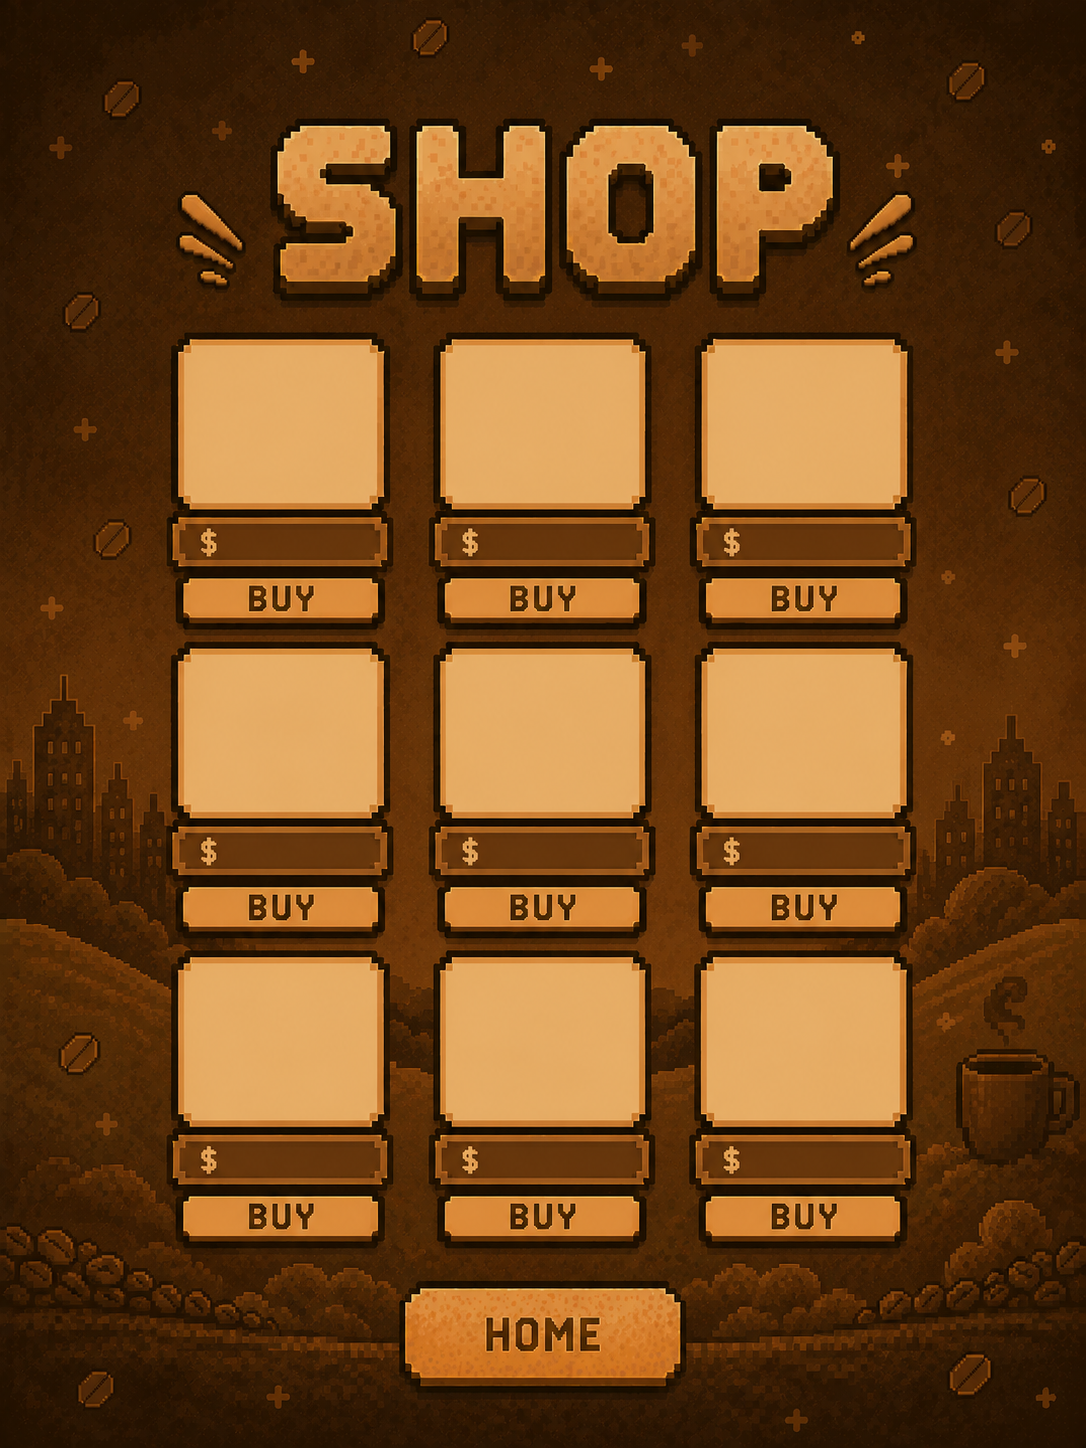
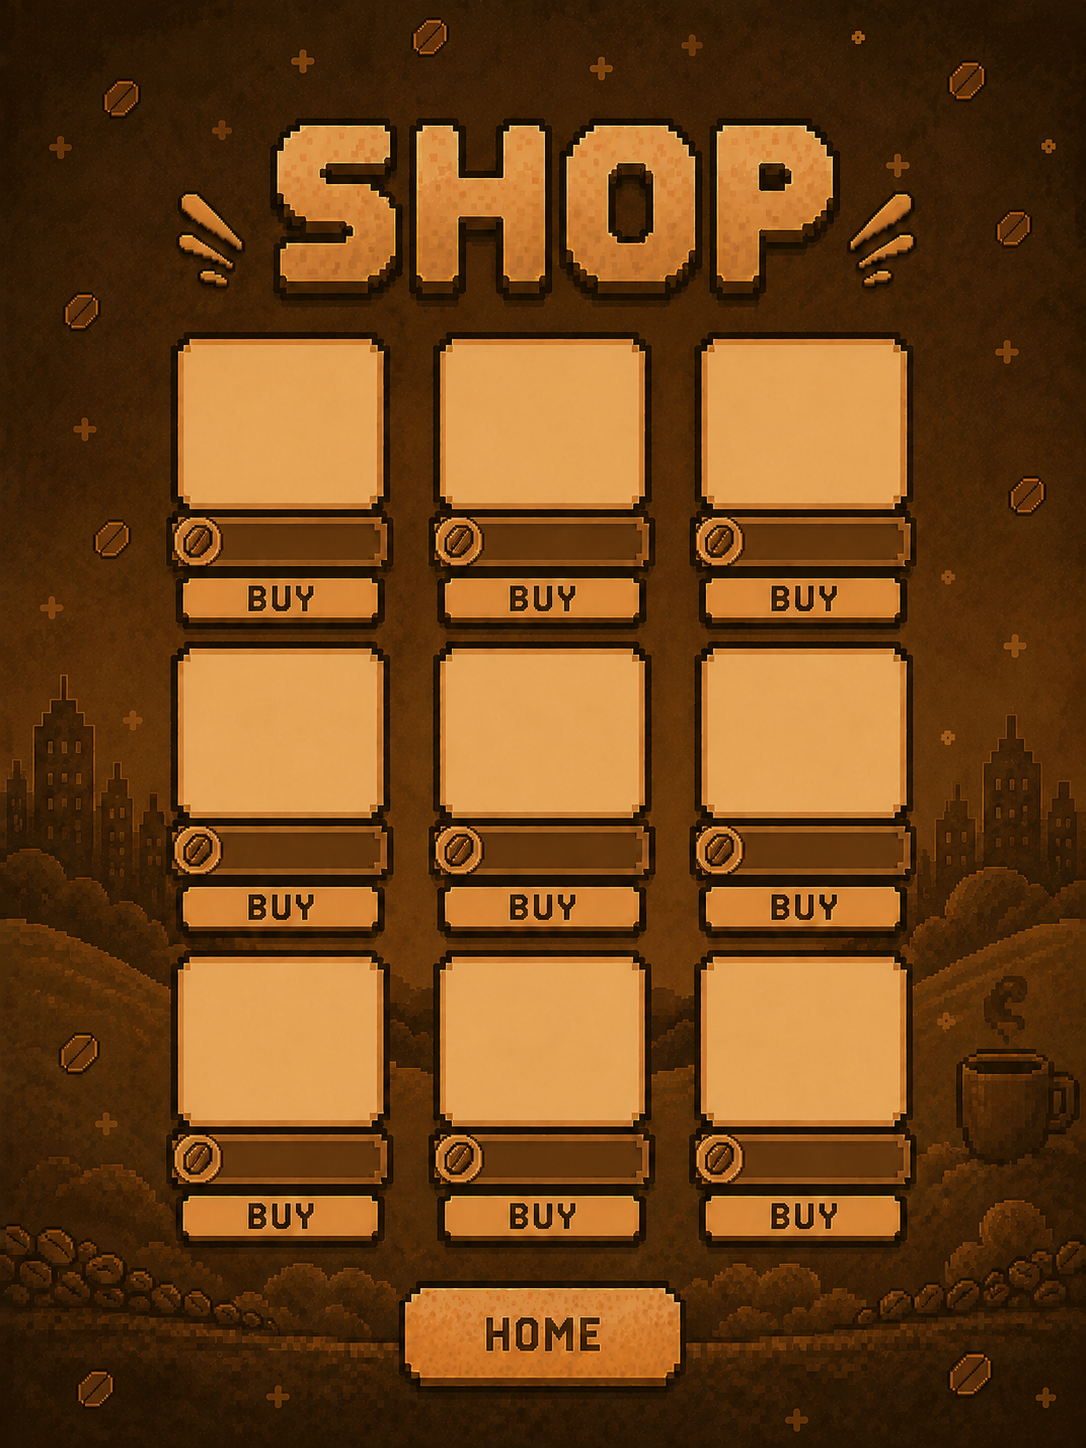
Item 1 fully done

diff --git a/main.py b/main.py
@@ -24,12 +24,13 @@ if gamestatus == 4:
     loadingimg = pygame.transform.scale(loadingold, (750, 1000))
     display.blit(loadingimg, (-25,0))
     pygame.display.flip()
-    time.sleep(1.5)
+    time.sleep(0.5)
     gamestatus = 1
 #Font
 font = pygame.font.Font('Assets/font.ttf', 120)
 mode_font = pygame.font.Font('Assets/font.ttf', 70)
 money_font = pygame.font.Font('Assets/font.ttf', 50)
+moneysmall_font = pygame.font.Font('Assets/font.ttf', 25)
 #Backround
 backrounddetails = 'Assets/backround.png'
 birddetails = 'Assets/bird.png'
@@ -54,7 +55,7 @@ milkbirdimg = pygame.transform.scale(milkbirdold, (120, 80))
 milkpillarold = pygame.image.load('Assets/milkpillar.png')
 milkpillarimg = pygame.transform.scale(milkpillarold, (400, 600))
 shopmilkpillarold = pygame.image.load('Assets/milkpillar.png')
-shopmilkpillarimg = pygame.transform.scale(milkpillarold, (100, 150))
+shopmilkpillarimg = pygame.transform.scale(milkpillarold, (70, 120))
 BLUE = 0,0,255
 #Json Save File
 defult_data = {
@@ -106,6 +107,13 @@ equip1 = {
     'width': 160,
     'height': 45
 }
+equip2 = {
+    'x': 90,
+    'y': 590,
+    'width': 160,
+    'height': 45
+}
+
 #home
 startbutton = {
     'x': 180,
@@ -199,6 +207,8 @@ class pillarobj:
         self.pillar3 = display.blit(pillarimgload, (pillar3x, third_pillary))
         self.pillar3flip = display.blit(pillarimgflipload, (pillar3x, third_pillary + 850))
 pillaryplus = 40    
+milkpillarx = 108
+shopspeed = 1
 pillarload = pillarobj()
 highscore['highscore'] = str(game_data['highscore'])
 equip1img = equipimg
@@ -270,26 +280,35 @@ while running:
         #backround dont move
         display.blit(shopimg, (-25, -20))
         display.blit(milkbirdimg, (108, 228))
+        milkpillarx -= shopspeed
+        if milkpillarx == 78:
+            shopspeed = -1
+        if milkpillarx == 188:
+            shopspeed = 1
+        display.blit(shopmilkpillarimg, (milkpillarx, 428))
         if game_data['item1'] == True:
             display.blit(equip1img, (90, 340))
         display.blit(moneyimg, (5, 5))
         money_surface = money_font.render(str(game_data['coffeebeans']), True, gamecolor)
+        item1_surface = moneysmall_font.render('50', True, gamecolor)
         display.blit(money_surface, (75, 2))
+        display.blit(item1_surface, (155, 338))
         shophome_rect = pygame.Rect((shophome['x'], shophome['y']), (shophome['width'], shophome['height']))
         equip1_rect = pygame.Rect((equip1['x'], equip1['y']), (equip1['width'], equip1['height']))
+        equip2_rect = pygame.Rect((equip2['x'], equip2['y']), (equip2['width'], equip2['height']))
         for event in pygame.event.get():
             if event.type == pygame.QUIT:
                 movesave()
             if event.type == pygame.KEYDOWN:
                 if event.key == pygame.K_p:
-                    game_data['coffeebeans'] = int(game_data['coffeebeans']) + 9999999999999
+                    game_data['coffeebeans'] = int(game_data['coffeebeans']) + 50
             if event.type == pygame.MOUSEBUTTONDOWN:
                 if shophome_rect.collidepoint(mousepos):
                     gamestatus = 1
                 if equip1_rect.collidepoint(mousepos):
                     if game_data['item1'] == False: 
-                        if game_data['coffeebeans'] == 100 or game_data['coffeebeans'] >= 100:
-                            game_data['coffeebeans'] = int(game_data['coffeebeans']) - 100
+                        if game_data['coffeebeans'] == 50 or game_data['coffeebeans'] >= 50:
+                            game_data['coffeebeans'] = int(game_data['coffeebeans']) - 50
                             game_data['item1'] = True
                             item1equipvar = True
                             equip1img = equipimg
@@ -345,7 +364,6 @@ while running:
             highscore['highscore'] = '0'
         if score >= int(highscore['highscore']):
             highscore['highscore'] = str(score)
-            print(highscore['highscore'])
         restart_rect = pygame.Rect((restartbutton['x'], restartbutton['y']), (restartbutton['width'], restartbutton['hight']))
         home_rect = pygame.Rect((homebutton['x'], homebutton['y']), (homebutton['width'], homebutton['height']))
         for event in pygame.event.get():
